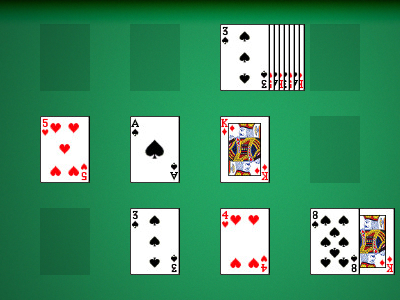
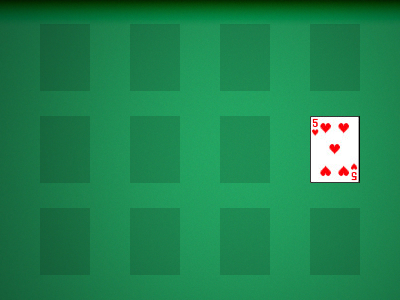
Fix

diff --git a/modules/cards_img/display_cards.py b/modules/cards_img/display_cards.py
@@ -8,11 +8,11 @@ def get_folder():
 
 
 def load_card(cardTuple):
-    cardPath = get_folder()+ "/" + cardTuple[1] + ".jpg"
+    cardPath = get_folder()+ "\\" + cardTuple[1] + ".jpg"
     return Image.open(cardPath)
 
 def load_stack():
-    stack_path = get_folder() + "/stack.png"
+    stack_path = get_folder() + "\\stack.png"
     return  Image.open(stack_path)
 
 def get_position(row, column, card_index = None, cards_number = None):
@@ -40,6 +40,7 @@ def get_position(row, column, card_index = None, cards_number = None):
 
 
 def get_current_round(up_last_card, middle_last_card, down_last_card):
+
 
     if up_last_card[0] > middle_last_card[0] and up_last_card[0] > down_last_card[0]:
 
@@ -70,7 +71,7 @@ def create_image(up_row, middle_row, down_row):
     print('appelle de paste_down_row:\n')
     stack = paste_border_row(down_row, 2, current_round, stack)
     stack = paste_border_row(up_row, 0, current_round, stack)
-    stack.save(get_folder() + "/temp.png")
+    stack.save(get_folder() + "\\temp.png")
 
 
 def paste_middle_row(middle_row, current_round, stack):
@@ -78,6 +79,10 @@ def paste_middle_row(middle_row, current_round, stack):
     row = 1
 
     for index in range(-1, -5, -1):
+
+        if index <= -len(middle_row):
+
+            return stack
 
         card_tuple = middle_row[index]
         column = 3 - (current_round - card_tuple[0])
@@ -122,6 +127,8 @@ def paste_border_row(row_list, row_number, current_round, stack):
         column = 3 - (current_round - card_round)
         if cards_number == 1:
             card_tuple = row_list[previous_index]
+            if card_tuple[0] == 0:
+                return stack
             stack = paste_card(card_tuple, get_position(row_number, column), stack)
 
         else:
@@ -139,8 +146,8 @@ def paste_border_row(row_list, row_number, current_round, stack):
 
 
 if __name__ == '__main__':
-    up_row = [(4, '3_Spades'),  (4, '5_Hearts'),  (4, '1_Spades'), (4, 'K_Diamonds'),(4, '3_Spades'),  (4, '5_Hearts'),  (4, '1_Spades'), (4, 'K_Diamonds')]
-    middle_row = [(1, '3_Spades'),  (2, '5_Hearts'),  (3, '1_Spades'), (4, 'K_Diamonds')]
-    down_row = [(3, '3_Spades'),  (4, '4_Hearts'),  (5, '8_Spades'), (5, 'K_Diamonds')]
+    up_row = [(0, '3_Spades')]
+    middle_row = [(0, '3_Spades'),  (1, '5_Hearts')]
+    down_row = [(0, '3_Spades'),]
     print(get_folder())
     create_image(up_row, middle_row, down_row)
